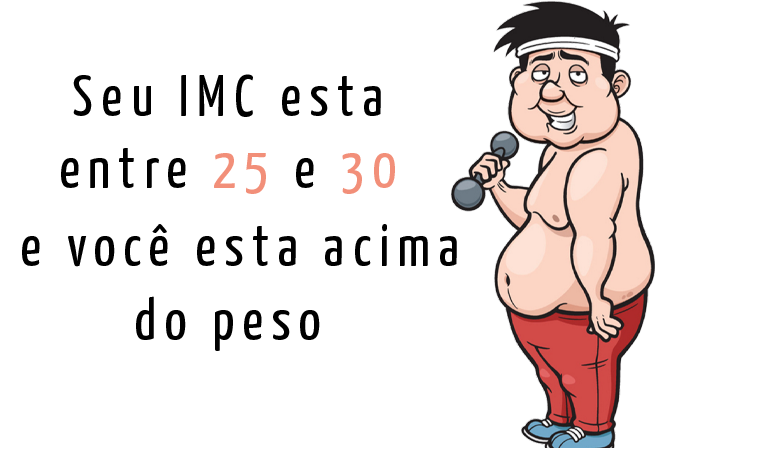
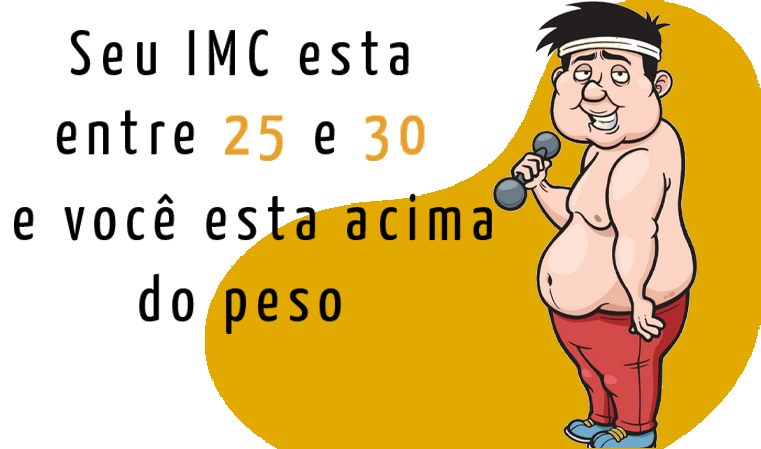
Cores e estilos mudados

diff --git a/css/styles.css b/css/styles.css
@@ -24,21 +24,19 @@ body {
 
 .box {
     background-image: radial-gradient(#eaffd1, #97ff7c);
-    background-repeat: no-repeat;
-    background-size: 100%;
     display: flex;
     align-items: center;
-    max-width: 1200px;
+    max-width: 1000px;
     margin: 0 20px;
-    height: 600px;
+    height: 520px;
     border-radius: 20px;
+    border: 5px solid #02b700;
 }
 
 .box .left {
     width: 100%;
-    margin-right: 50px;
-    margin-left: 20px;
-    max-width: 600px;
+    margin: 0 35px;
+    max-width: 520px;
 }
 
 .box .left h1 {
@@ -76,8 +74,7 @@ body {
     height: auto;
     justify-content: center;
     align-items: center;
-    margin-left: 50px;
-    margin-right: 20px;
+    margin: 0 35px;
 }
 
 .box .right .principal {
@@ -95,8 +92,8 @@ body {
 
 /* RODAPÉ */
 
-/* footer {
-    width: auto;
+footer {
+    width: 100vw;
     height: 40px;
     background-color: #000;
     display: flex;
@@ -104,35 +101,11 @@ body {
     justify-content: center;
 }
 
-.rodape {
-    display: flex;
-    justify-content: center;
-    align-items: center;
-}
-
-.footer-texto {
-    color: #fff;
-    font-size: 1.3rem;
-    font-weight: bold;
-    text-align: center;
-    font-variant: small-caps;
-}
-
-.footer-texto a {
-    color: #7ac9e9;
-    text-decoration: none;
-    cursor: pointer;
-}
-
-.footer-texto a:hover {
-    color: #0a4d99;
-    text-decoration: none;
-} */
-
 @media (max-width: 800px) {
     .box {
         flex-direction: column;
         height: auto;
+        margin: 2rem;
     }
 
     .box .right {
@@ -141,8 +114,7 @@ body {
     }
 
     .box .right img {
-        width: 90%;
-        margin: 10px;
+        width: 80%;
     }
 
     .box .right p {

diff --git a/js/script.js b/js/script.js
@@ -1,4 +1,5 @@
-function calcularImc() {
+function calcularImc(event) {
+    event.preventDefault();
     let altura = document.getElementById('altura').value;
     let peso = document.getElementById('peso').value;
     let img = document.getElementById('principal');
@@ -7,19 +8,19 @@ function calcularImc() {
 
     if (imc >= 0 && imc <= 18.5) {
         img.src = 'img/magro.png';
-        document.body.style.background = '#5bd9ab';
+        document.getElementById('box').style.border = '5px solid #5bd9ab';
     } else if (imc >= 18.6 && imc <= 24.9) {
         img.src = 'img/peso-ideal.png';
-        document.body.style.background = '#1ba673';
+        document.getElementById('box').style.border = '5px solid #1ba673';
     } else if (imc >= 25 && imc <= 30) {
         img.src = 'img/acima do peso.png';
-        document.body.style.background = '#f28f79';
+        document.getElementById('box').style.border = '5px solid #e2a900';
     } else if (imc >= 30.1 && imc <= 35) {
         img.src = 'img/gordo.png';
-        document.body.style.background = '#f2637e';
+        document.getElementById('box').style.border = '5px solid #b62e47';
     } else if (imc >= 35.1 && imc <= 99.9) {
         img.src = 'img/obeso.png';
-        document.body.style.background = '#d94e4e';
+        document.getElementById('box').style.border = '5px solid #830909';
     } else {
         imc;
     }

diff --git a/index.html b/index.html
@@ -12,7 +12,7 @@
 
 <body>
     <div class="container">
-        <div class="box">
+        <div class="box" id="box">
             <div class="left">
                 <h1>Calcule seu IMC</h1>
                 <input type="number" placeholder="Altura:" id="altura">
@@ -25,16 +25,16 @@
                 <img src="img/tela principal.png" alt="tela principal" class="principal" id="principal">
             </div>
         </div>
+        <!-- <footer>
+            <div class="rodape">
+                <p class="footer-texto">
+                    Criação e Desenvolvimento:
+                    <a href="https://github.com/Jomarfranca" target="_blank">Jomar A. França </a> 2022 -
+                    <a href="https://www.linkedin.com/in/jomar-almeida-franca/" target="_blank">Front End Developer</a>
+                </p>
+            </div>
+        </footer> -->
     </div>
-    <!-- <footer>
-        <div class="rodape">
-            <p class="footer-texto">
-                Criação e Desenvolvimento:
-                <a href="https://github.com/Jomarfranca" target="_blank">Jomar A. França </a> 2022 -
-                <a href="https://www.linkedin.com/in/jomar-almeida-franca/" target="_blank">Front End Developer</a>
-            </p>
-        </div>
-    </footer> -->
     <script src="js/script.js"></script>
 
 </body>
